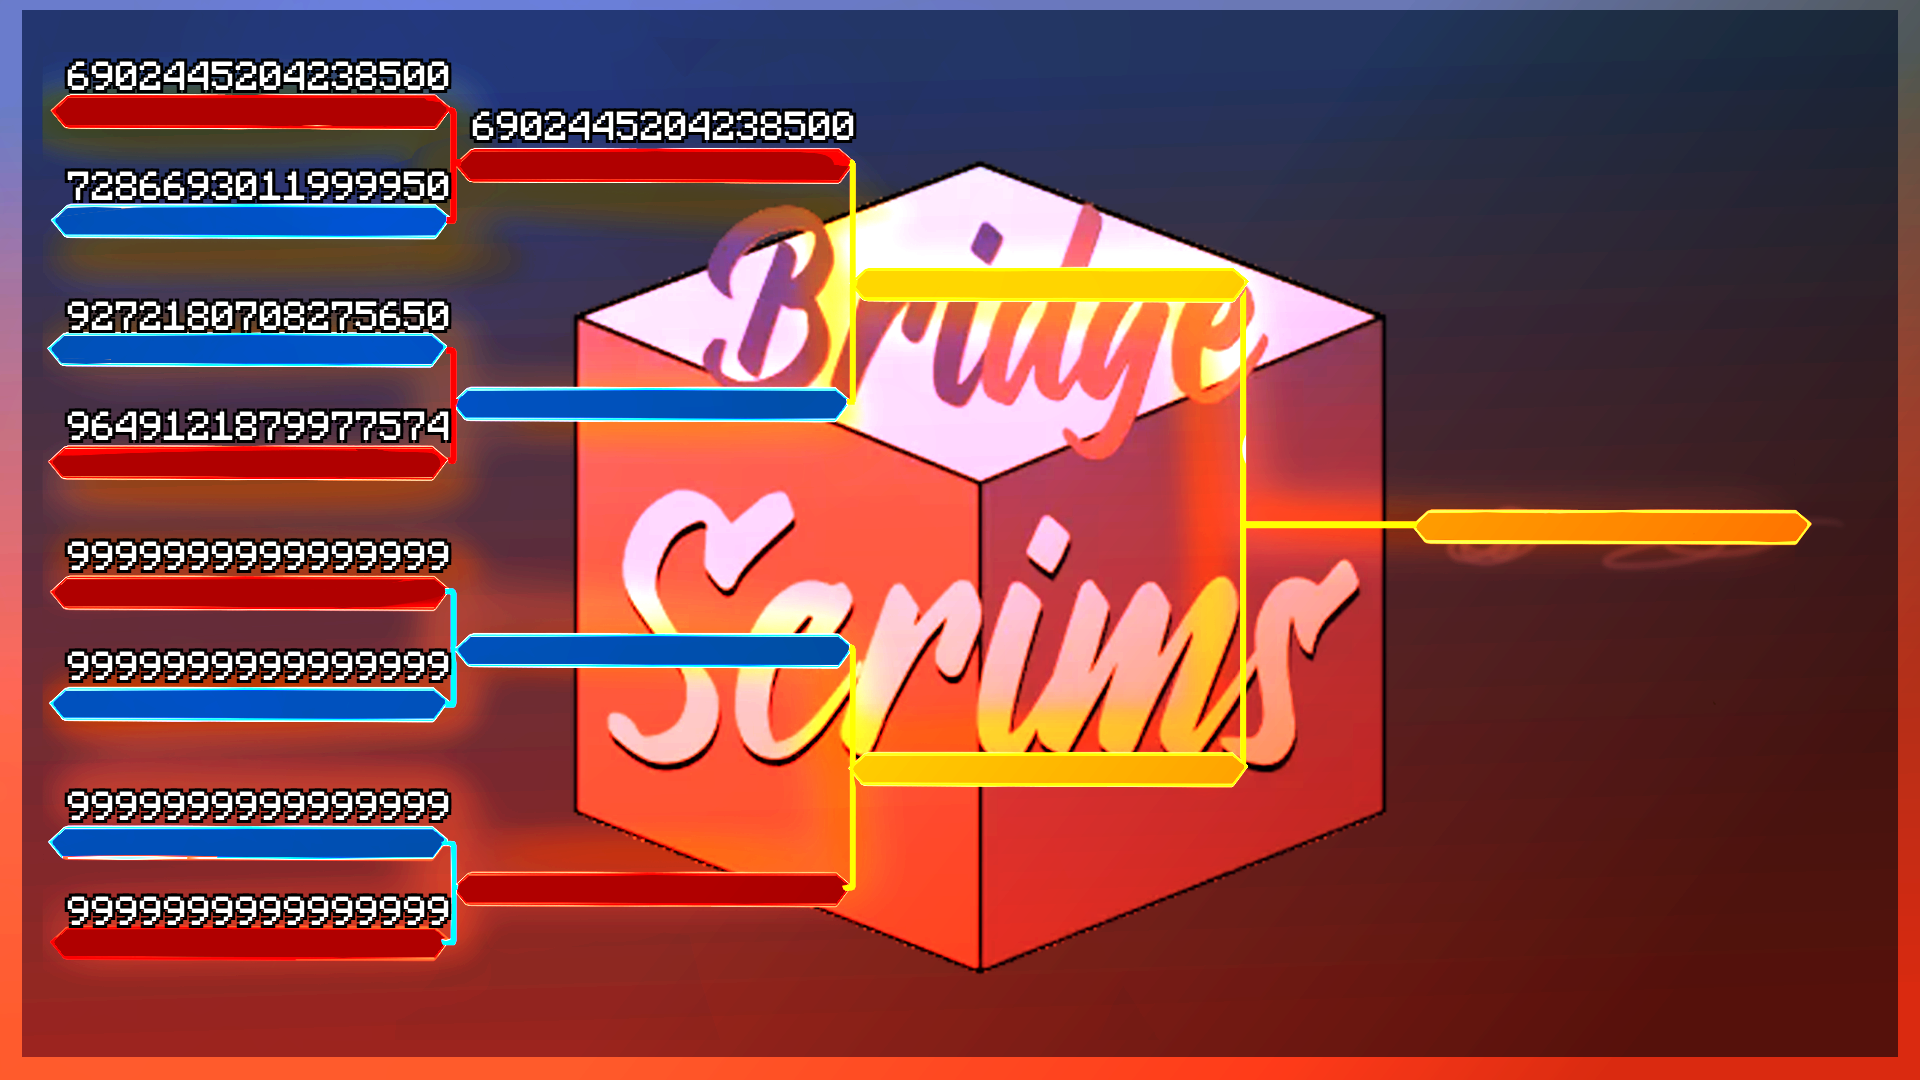
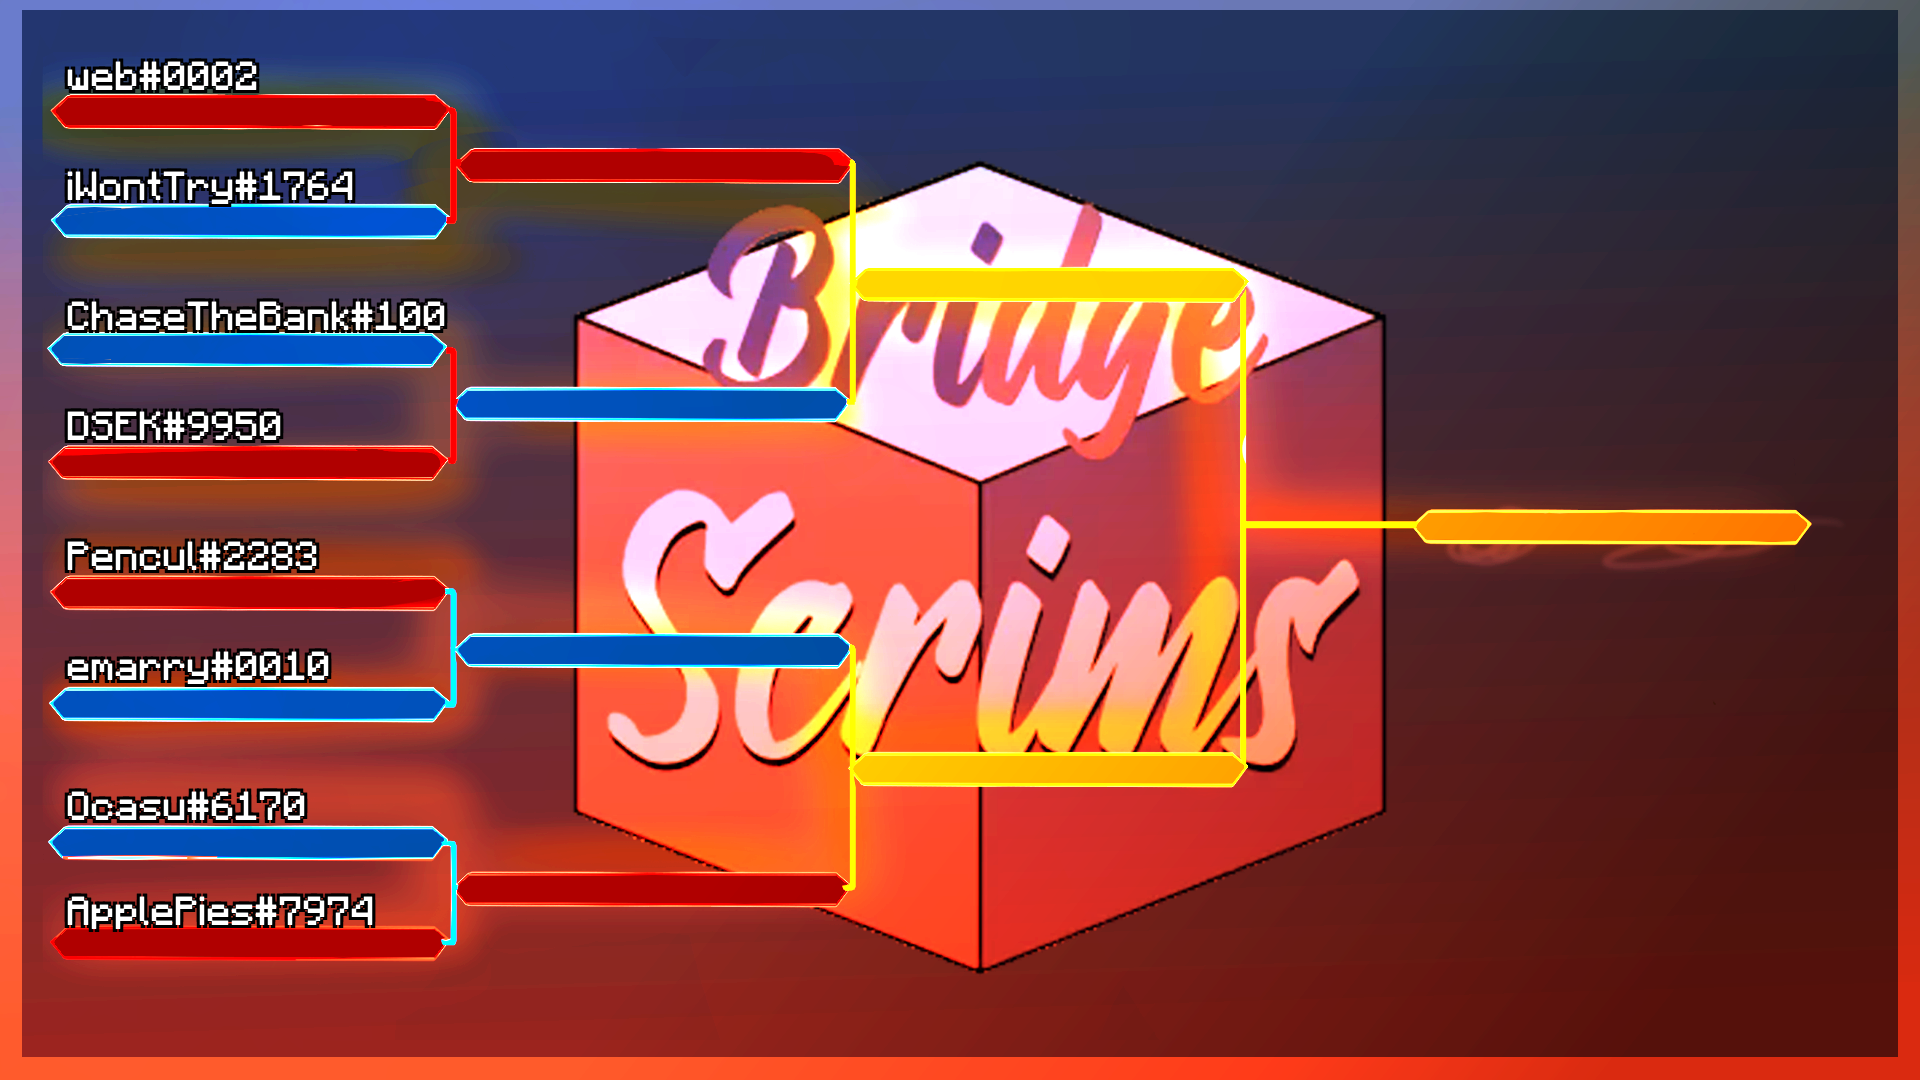
Update

diff --git a/src/main/java/image/addPlayer.java b/src/main/java/image/addPlayer.java
@@ -20,6 +20,12 @@ public class addPlayer {
     static int[] semiY3 = {270, 750};
     static int last = 510;
     static int[] xs = {68, 473, 873, 1423};
+
+//    static Color member = Color.WHITE;
+//    static Color prime = new Color(125, 170, 230);
+//    static Color privat = new Color(160, 160, 200);
+//    static Color premium = new Color(176, 125,244);
+
     public void add(String a, int gameId, Game g){
         if(g.getPlayer1() == null){
 
@@ -46,10 +52,8 @@ public class addPlayer {
         for(int i = 0 ;i<4;i++){
             String p1 = gs[i].getPlayer1();
             String p2 = gs[i].getPlayer2();
-            if(!Main.testingMode){
-                p1 = Main.getBot().getUserById(p1).getAsTag();
-                p2 = Main.getBot().getUserById(p1).getAsTag();
-            }
+            p1 = Main.getBot().getUserById(p1).getAsTag();
+            p2 = Main.getBot().getUserById(p2).getAsTag();
             p1 = p1.substring(0, Math.min(16, p1.length()));
             p2 = p2.substring(0, Math.min(16, p2.length()));
             draw(g, p1, xs[0], semiY[i*2]);
@@ -72,10 +76,8 @@ public class addPlayer {
                     p1 = p2;
                     p2 = temp;
                 }
-                if (!Main.testingMode) {
-                    p1 = Main.getBot().getUserById(p1).getAsTag();
-                    p2 = Main.getBot().getUserById(p1).getAsTag();
-                }
+                p1 = Main.getBot().getUserById(p1).getAsTag();
+                p2 = Main.getBot().getUserById(p2).getAsTag();
                 p1 = p1.substring(0, Math.min(16, p1.length()));
                 if(p2.length()!=0) p2 = p2.substring(0, Math.min(16, p2.length()));
                 draw(g, p1, xs[1], semiY2[i * 2]);
@@ -88,10 +90,8 @@ public class addPlayer {
             if(gs[6].getPlayer2() != null){
                 p2 = gs[6].getPlayer2();
             }
-            if (!Main.testingMode) {
-                p1 = Main.getBot().getUserById(p1).getAsTag();
-                p2 = Main.getBot().getUserById(p1).getAsTag();
-            }
+            p1 = Main.getBot().getUserById(p1).getAsTag();
+            p2 = Main.getBot().getUserById(p2).getAsTag();
             p1 = p1.substring(0, Math.min(16, p1.length()));
             if(p2.length() != 0) p2 = p2.substring(0, Math.min(16, p2.length()));
             draw(g, p1, xs[2], semiY3[0]);

diff --git a/src/main/java/testing/JsonBlobber.java b/src/main/java/testing/JsonBlobber.java
@@ -1,15 +1,27 @@
 package testing;
 
+
+import org.json.JSONObject;
+
+import java.io.File;
 import java.io.IOException;
 import java.io.OutputStream;
 import java.net.HttpURLConnection;
-import java.net.ProtocolException;
 import java.net.URL;
 import java.nio.charset.StandardCharsets;
+import java.util.Scanner;
 
 public class JsonBlobber {
-    public static void main(String[] args) {
+    public static String g = "de9f408a-e73a-11eb-9ebe-c75b0ae745f3";
+    public static void main(String[] args) throws IOException {
 
+//        Scanner scan = new Scanner(new File("src/main/java/testing/y.json"));
+//        String data = "";
+//        while(scan.hasNext()){
+//            data += scan.next();
+//        }
+//        put(g, data);
+        gameCtAdd(g);
     }
     public static void post() throws IOException {
         URL url = new URL("https://jsonblob.com/api/jsonBlob");
@@ -46,5 +58,24 @@ public class JsonBlobber {
 
         System.out.println(http.getResponseCode() + " " + http.getResponseMessage());
         http.disconnect();
+    }
+    public static void gameCtAdd(String id) throws IOException {
+        put(g, ""+(Integer.parseInt(get(g, "gameCt"))+1));
+    }
+    public static void restartCtAdd(String id) throws IOException {
+        put(g, ""+(Integer.parseInt(get(g, "restartCt"))+1));
+    }
+    public static String get(String id, String field) throws IOException {
+        URL url = new URL("https://jsonblob.com/api/jsonBlob/" + id);
+        HttpURLConnection http = (HttpURLConnection) url.openConnection();
+        http.setRequestProperty("Authorization", "Bearer mt0dgHmLJMVQhvjpNXDyA83vA_PxH23Y");
+
+        System.out.println(http.getResponseCode() + " " + http.getResponseMessage());
+        System.out.println(http.getHeaderFields());
+        JSONObject j = new JSONObject(http.getContent());
+        http.disconnect();
+        System.out.println(j.toMap());
+        return j.getInt("gameCt") + "";
+
     }
 }

diff --git a/src/main/java/botMain/Main.java b/src/main/java/botMain/Main.java
@@ -4,9 +4,15 @@ import net.dv8tion.jda.api.JDA;
 import net.dv8tion.jda.api.JDABuilder;
 import net.dv8tion.jda.api.entities.Activity;
 import net.dv8tion.jda.api.entities.Guild;
+import net.dv8tion.jda.api.entities.Member;
 import net.dv8tion.jda.api.entities.VoiceChannel;
+import net.dv8tion.jda.api.requests.GatewayIntent;
+import net.dv8tion.jda.api.utils.ChunkingFilter;
+import net.dv8tion.jda.api.utils.MemberCachePolicy;
+import net.dv8tion.jda.api.utils.concurrent.Task;
 
 import javax.security.auth.login.LoginException;
+import java.util.List;
 
 public class Main {
     private static JDA bot;
@@ -29,8 +35,14 @@ public class Main {
         bot = JDABuilder.createDefault(Secret.TutorialBotToken)
                 .setActivity(Activity.playing("Testing Mode"))
                 .addEventListeners(new Listener())
+//                .setChunkingFilter(ChunkingFilter.ALL) // enable member chunking for all guilds
+                .setMemberCachePolicy(MemberCachePolicy.ALL) // ignored if chunking enabled
+                .enableIntents(GatewayIntent.GUILD_MEMBERS)
                 .build().awaitReady();
         guild = bot.getGuilds().get(0);
+//        guild.loadMembers();
+        Task<List<Member>> load = guild.loadMembers();
+        System.out.println(load.get());
 
         for (int i = 0; i < 7; i++) {
             if (i < 6) vcs[i] = bot.getVoiceChannelsByName("Game " + (i + 1), true).get(0);

diff --git a/src/main/java/botMain/Utils.java b/src/main/java/botMain/Utils.java
@@ -14,13 +14,13 @@ public class Utils {
     public static void reaction(String player1, String player2, Tournament t, int numberId){
         EmbedBuilder b = new EmbedBuilder();
         b.setTitle("Select winner");
-        if(Main.testingMode){
-            b.addField(player1 + " won: ", ("\uD83C\uDD70"), false);
-            b.addField(player2 + " won: ", ("\uD83C\uDD71"), false);
-        }else{
+//        if(Main.testingMode){
+//            b.addField(player1 + " won: ", ("\uD83C\uDD70"), false);
+//            b.addField(player2 + " won: ", ("\uD83C\uDD71"), false);
+//        }else{
             b.addField(Main.getBot().getUserById(player1).getAsTag() + " won: ", ("\uD83C\uDD70"), false);
             b.addField(Main.getBot().getUserById(player2).getAsTag() + " won: ", ("\uD83C\uDD71"), false);
-        }
+//        }
         b.setColor(Color.PINK);
         MessageAction messageAction = Objects.requireNonNull(Main.getBot().getTextChannelById(Main.botChannelId)).sendMessage(b.build());
         Message m = messageAction.complete();

diff --git a/src/main/java/botMain/Brackets.java b/src/main/java/botMain/Brackets.java
@@ -87,16 +87,25 @@ public class Brackets {
 
                     b.addField("Game :" + nums[(i + 1)] + ":", one.getAsTag() + " :vs: " + two.getAsTag(), false);
                 } else {
-                    b.addField("Game :" + nums[(i + 1)] + ":", bulletTourney.getGame(i).getPlayer1() + " :vs: " + bulletTourney.getGame(i).getPlayer2(), false);
+                    if(one != null && two != null){
+
+                        b.addField("Game :" + nums[(i + 1)] + ":", one.getAsTag() + " :vs: " + two.getAsTag(), false);
+                    }else{
+                        b.addField("Game :" + nums[(i + 1)] + ":", bulletTourney.getGame(i).getPlayer1() + " :vs: " + bulletTourney.getGame(i).getPlayer2(), false);
+
+                    }
                 }
 
 
             }
 //            b.setColor(Color.PINK);
             Utils.print(b);
+            image.addPlayer.reload();
+            sendBracketsUpdate.update();
         }catch(Exception e){
             e.printStackTrace();
         }
+
 
 
     }

diff --git a/src/main/java/botMain/Listener.java b/src/main/java/botMain/Listener.java
@@ -60,9 +60,9 @@ public class Listener extends ListenerAdapter {
 
                 if (Main.testingMode) {
 
-                    String[] testingIds = {"728669301199995035", "86491218799775744", "96491218799775744",
-                            "927218070827565088", "999999999999999996", "999999999999999991", "999999999999999995",
-                            "999999999999999994"};
+                    String[] testingIds = {"728669301199995035", "86491218799775744", "701197998121549844",
+                            "426409201464508437", "488126256089530389", "566791733082456075", "691070187335581706",
+                            "336927028999880716"};
 //                    String[] testingIds = {"728669301199995035", "690244520423850017", "86491218799775744", "327218070827565088", "999999999999999996", "999999999999999991", "999999999999999995", "999999999999999994"};
                     //ocasu, tphere, shmill, web
 
